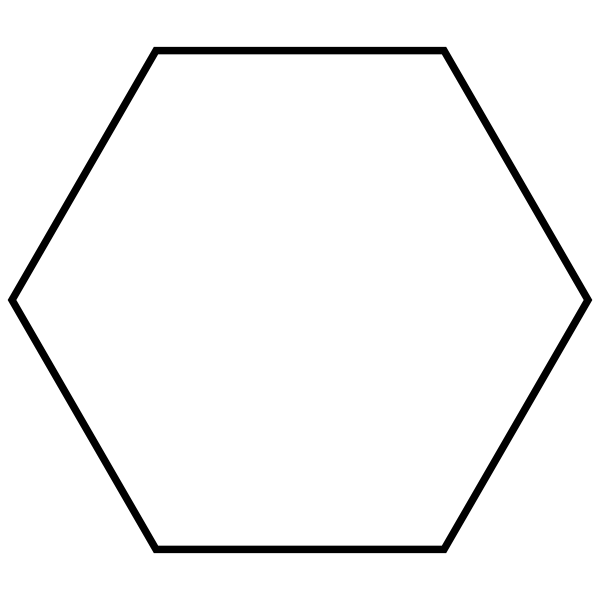
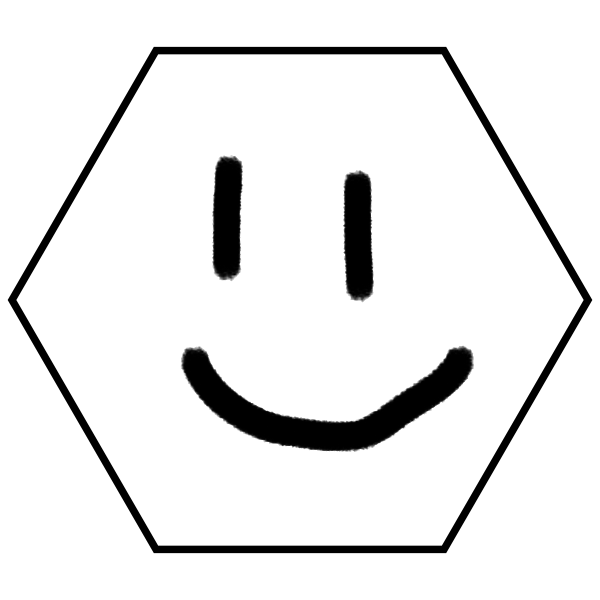
Got images working

Changed region(s): [[0.3, 0.57, 0.81, 0.75], [0.33, 0.24, 0.42, 0.48], [0.57, 0.27, 0.63, 0.51]]

diff --git a/client/src/components/Battle.js b/client/src/components/Battle.js
@@ -5,7 +5,7 @@ import Selector from './Selector';
 // Import tile images
 import emptyImg from '../img/empty.png';
 import basePlayerImg from '../img/base-player.png';
-import selectorImg from '../img/selector.png';
+import baseEnemyImg from '../img/base-enemy.png';
 
 const NAME_TO_IMG = {
   // Owns
@@ -15,7 +15,7 @@ const NAME_TO_IMG = {
   // Does not own
   false: {
     'Empty': emptyImg,
-    'Base': basePlayerImg,
+    'Base': baseEnemyImg,
   },
 }
 
@@ -27,13 +27,14 @@ class Battle extends Component {
   constructor() {
     super();
     // Mirror server by initalizing grid as empty units
-    this.grid = {};
+    const grid = {};
     for (let q = -MAP_RADIUS; q <= MAP_RADIUS; q++) {
-      this.grid[q] = {};
+      grid[q] = {};
       let r1 = Math.max(-MAP_RADIUS, -q - MAP_RADIUS);
       let r2 = Math.min(MAP_RADIUS, -q + MAP_RADIUS);
       for (let r = r1; r <= r2; r++) {
-        this.grid[q][r] = <Unit
+        grid[q][r] = <Unit
+          key = {[q, r]}
           q={q} r={r}
           name='Empty'
           health=''
@@ -44,15 +45,23 @@ class Battle extends Component {
         />;
       }
     }
-    // Init with no selected unit
-    this.sel = false;
-    this.action = 'sel';
+    this.state = {
+      grid: grid,
+      sel: false,
+      action: 'sel'
+    }
+
+    // Bind functions
+    this.handleUnitUpdate = this.handleUnitUpdate.bind(this);
+    this.handleUnitClick = this.handleUnitClick.bind(this);
   }
 
+  // ! FIXME: Messy, slow, and non-reacty
   handleUnitUpdate(unit) {
-    console.log(unit.owns);
     const img = NAME_TO_IMG[unit.owns][unit.name];
-    this.grid[unit.q][unit.r] = <Unit
+    console.log(this);
+    const grid = this.state.grid;
+    grid[unit.q][unit.r] = <Unit
       q={unit.q} r={unit.r}
       name={unit.name}
       health={unit.health}
@@ -61,20 +70,22 @@ class Battle extends Component {
       img={img}
       battleRef={this}
     />
+    this.setState({ grid: grid });
   }
 
   handleUnitClick(q, r) {
-    switch (this.action) {
+    console.log(this);
+    switch (this.state.action) {
       case 'sel':
-        this.sel = true;
-        this.selq = q;
-        this.selr = r;
+        this.setState({
+          sel: true,
+          selq: q,
+          selr: r
+        });
         break;
       case 'move':
-        this.sel = false;
         break;
       case 'attack':
-        this.sel = false;
         break;
       default: break;
     }
@@ -89,16 +100,19 @@ class Battle extends Component {
 
   render() {
     const units = [];
-    for (const [q, row] of Object.entries(this.grid)) {
-      for (const [r, unit] of Object.entries(row)) {
-        units.push(unit);
+    if (this.state) {
+      for (const [q, row] of Object.entries(this.state.grid)) {
+        for (const [r, unit] of Object.entries(row)) {
+          units.push(unit);
+        }
       }
-    }
-    if (this.sel) {
-      units.push(<Selector
-        q={this.selq} r={this.selr}
-        img={selectorImg}
-      />);
+      console.log(this.state.sel);
+      if (this.state.sel) {
+        units.push(<Selector
+          key='selector'
+          q={this.state.selq} r={this.state.selr}
+        />);
+      }
     }
     return (
       <div>

diff --git a/client/src/components/Unit.js b/client/src/components/Unit.js
@@ -1,6 +1,7 @@
 import React, { Component } from 'react';
 
-// ! FIXME figure this out
+import hexImg from '../img/hexagon.png';
+
 const SIZE = 40;
 
 // Displays a unit tile. Does NOT handle any game logic.
@@ -27,14 +28,28 @@ class Unit extends Component {
       left: `${x + SIZE * 12}px`,
       top: `${y + SIZE * 12}px`,
     };
+    const absStyle = {
+      position: 'absolute'
+    }
     return (
       <div style={style}>
-        <img
-          src={img}
-          width={SIZE * 2}
-          height={SIZE * 2}
-          onClick={this.handleClick}
-        />
+        <div></div>
+        <div style={absStyle}>
+          <img
+            src={hexImg}
+            width={SIZE * 2}
+            height={SIZE * 2}
+            onClick={this.handleClick}
+          />
+        </div>
+        <div style={absStyle}>
+          <img
+            src={img}
+            width={SIZE * 2}
+            height={SIZE * 2}
+            onClick={this.handleClick}
+          />
+        </div>
 
         {/* FIXME coordinates and scaling */}
         {this.health &&

diff --git a/client/src/components/Selector.js b/client/src/components/Selector.js
@@ -1,22 +1,28 @@
 import React, { Component } from 'react';
 
+import img from '../img/selector.png';
+
 // ! FIXME figure this out
-const SIZE = 100;
+const SIZE = 40;
 
 // Indicator to show the selected tile.
 class Selector extends Component {
   render() {
     const q = this.props.q, r = this.props.r;
-    const img = this.props.img;
-    const x = SIZE * (Math.sqrt(3) * q + Math.sqrt(3) / 2 * r);
-    const y = SIZE * 3./2 * r;
-    const style = `position:absolute;
-                   left:${x}px
-                   top:${y}px`;
+    const x = SIZE * 3./2 * q;
+    const y = SIZE * (Math.sqrt(3) / 2 * q + Math.sqrt(3) * r);
+    const style = {
+      position: 'absolute',
+      left: `${x + SIZE * 12}px`,
+      top: `${y + SIZE * 12}px`,
+    };
     return (
       <div style={style}>
-        <img src={img} />;
-        {/* FIXME coordinates and scaling */}
+        <img
+          src={img}
+          width={SIZE * 2}
+          height={SIZE * 2}
+        />
       </div>
     );
   }
